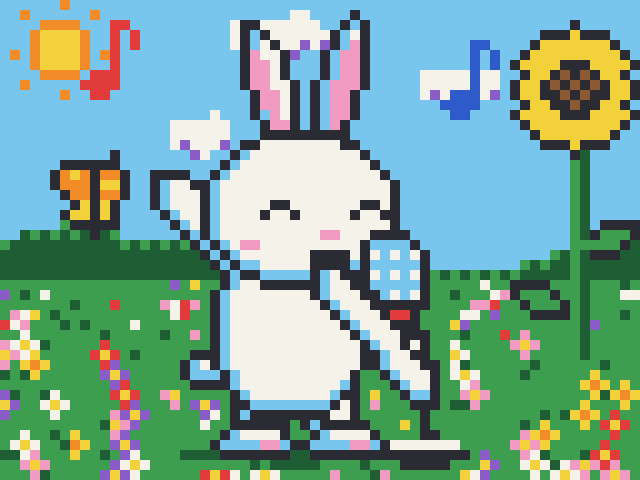
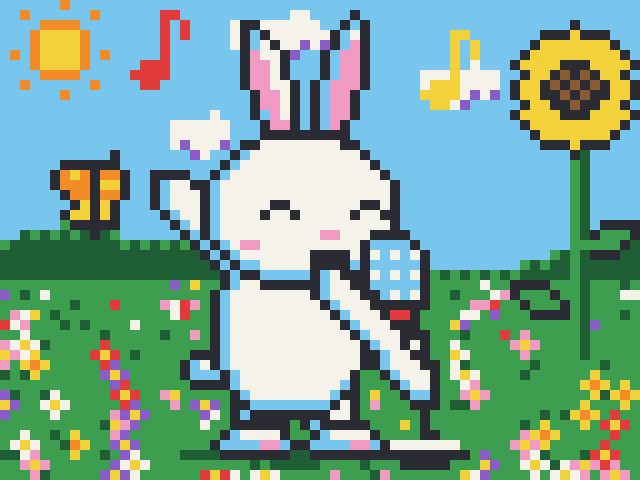
あまいものあつめ：190 ほしぞらで うさぎが うたう（165 と同じ部品を ぎゃく・背景ぎゃく・x=33 で。音符を 空が S でも B でも見える R・Y にし、太陽・月に重ならない位置へ。165 も描き直し）
Claude-Session: https://claude.ai/code/session_0124oYPKvFT36fnBg48Qs1xx

Changed region(s): [[0.125, 0.0, 0.3125, 0.2188], [0.6562, 0.0625, 0.7812, 0.25]]

diff --git a/docs/plans/amai-parts/parts/usagi_utau.py b/docs/plans/amai-parts/parts/usagi_utau.py
@@ -26,6 +26,6 @@ def draw(cx, by, flip=False):
     end(flip, cx)
     s = -1 if flip else 1
     sh = 5 if flip else 0
-    note(cx - s * 20 - sh, by - 44, 'R')
-    note(cx + s * 16 - sh, by - 42, 'B')
+    note(cx - s * 15 - sh, by - 45, 'R')    # 音符は 空が S でも B でも 見える色（R・Y）
+    note(cx + s * 14 - sh, by - 43, 'Y')
     return head, body
